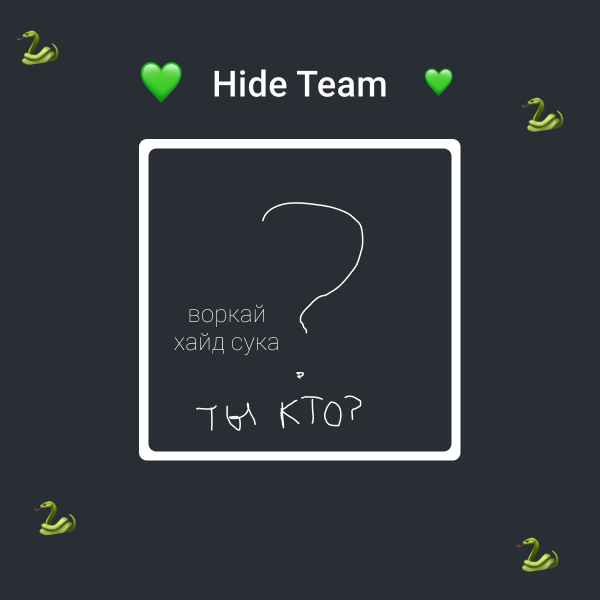
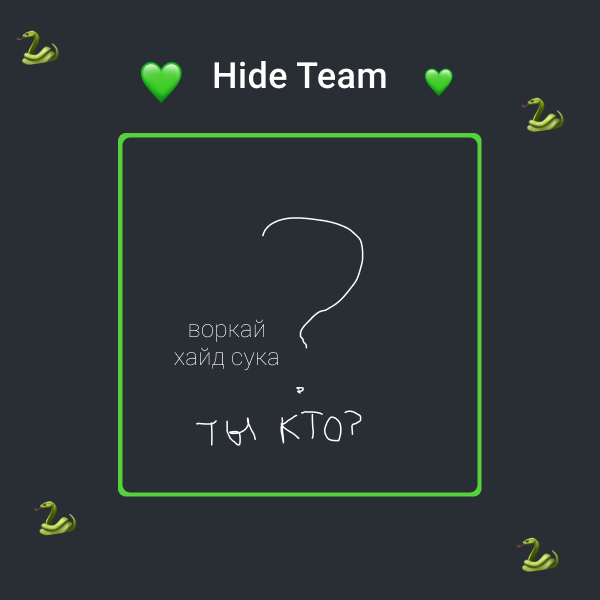
somenewchanges

diff --git a/Bot/utils/render/profile.py b/Bot/utils/render/profile.py
@@ -22,14 +22,14 @@ def render_profile(profile_path: str, active: bool = True):
         logger.debug(f"{image.size=}")
 
         profile_image = Image.open(profile_path)
-        profile_image.thumbnail((303, 303))
+        profile_image.thumbnail((355, 355))
         logger.debug(f"{profile_image.size=}")
 
         profile_image_w, profile_image_h = profile_image.size
 
         # Center the image
 
-        offset = (148, 148)
+        offset = (123, 138)
 
         image.paste(profile_image, offset)
 

diff --git a/CasinoBot/bot.py b/CasinoBot/bot.py
@@ -60,6 +60,11 @@ if __name__ == "__main__":
     finally:
         loop.run_until_complete(shutdown(dp))
 
+    # if sys.platform == "linux" or sys.platform == "linux2":
+    #     pass
+    # else:
+    #     print("windows")
+
     # executor.start_polling(
     #     dp, skip_updates=SKIP_UPDATES, on_startup=on_startup
     # )  # , on_shutdown=on_shutdown)
